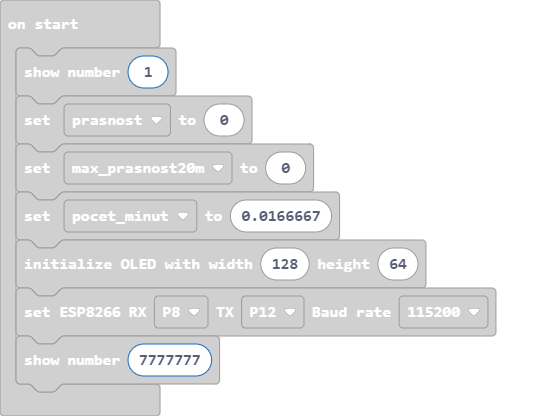
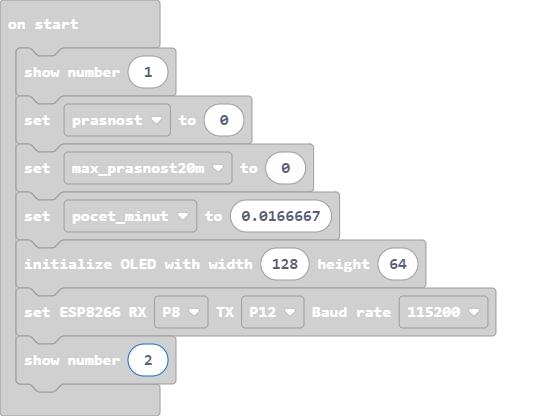
Update main.blocks, main.ts

Changed region(s): [[0.2482, 0.8125, 0.4033, 0.9375], [0.2482, 0.1875, 0.3102, 0.2188], [0.2482, 0.125, 0.3102, 0.1562]]

diff --git a/main.ts b/main.ts
@@ -60,7 +60,7 @@ max_prasnost20m = 0
 pocet_minut = 0.0166667
 OLED.init(128, 64)
 ESP8266_IoT.initWIFI(SerialPin.P8, SerialPin.P12, BaudRate.BaudRate115200)
-basic.showNumber(7777777)
+basic.showNumber(2)
 basic.forever(function () {
     prasnost = Environment.ReadDust(DigitalPin.P16, AnalogPin.P1)
     i += 1
